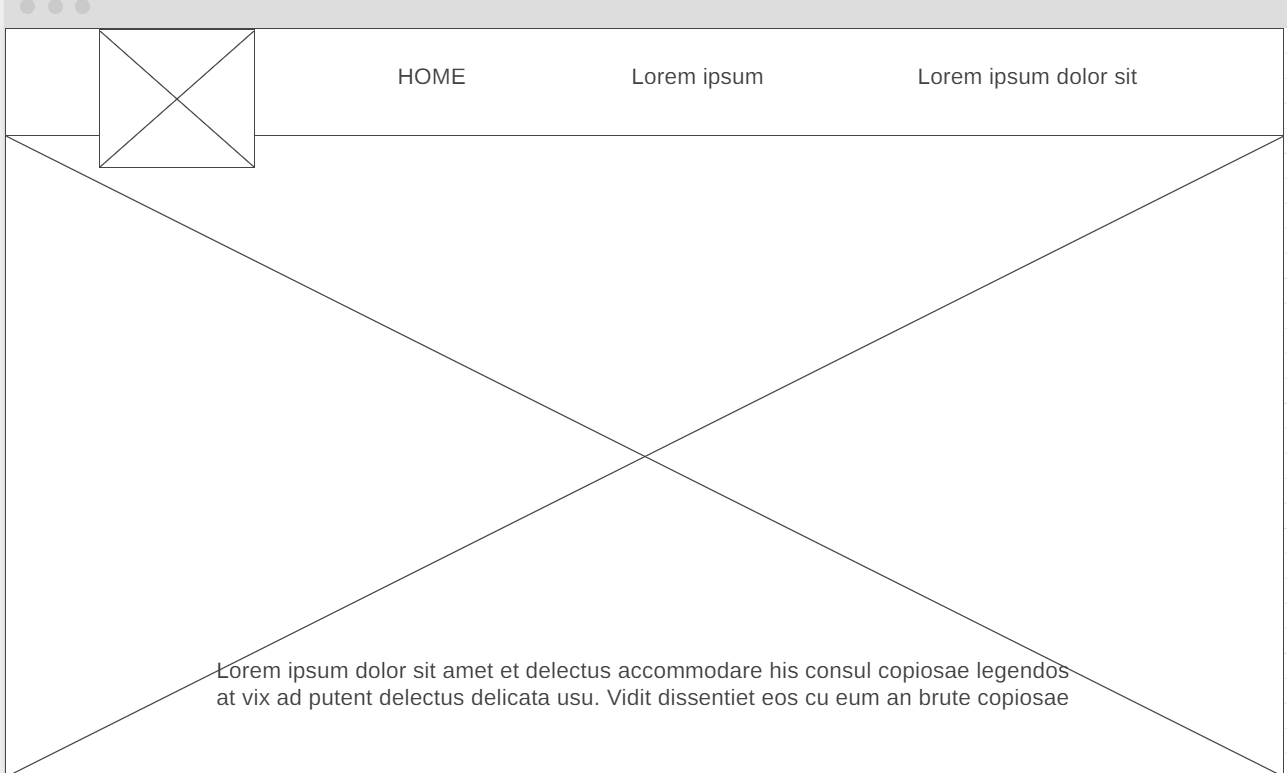
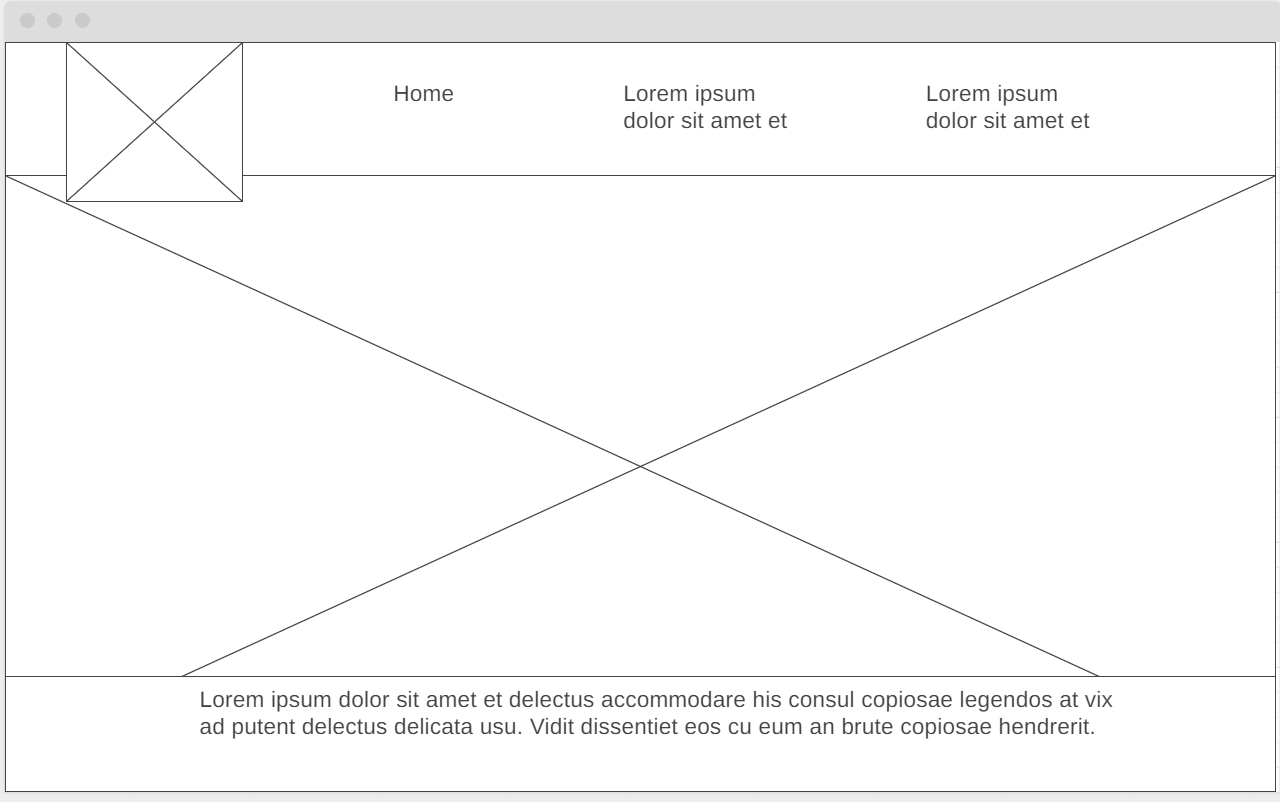
sasas

diff --git a/soccer/soccer.css b/soccer/soccer.css
@@ -30,7 +30,7 @@ Fonts are separated by a & */
 
 /*  Look around below...but DON'T CHANGE ANYTHING! */
 .wire{
-  height:200px;
+  height:250px;
   width: 1000px;
 }
 body {
